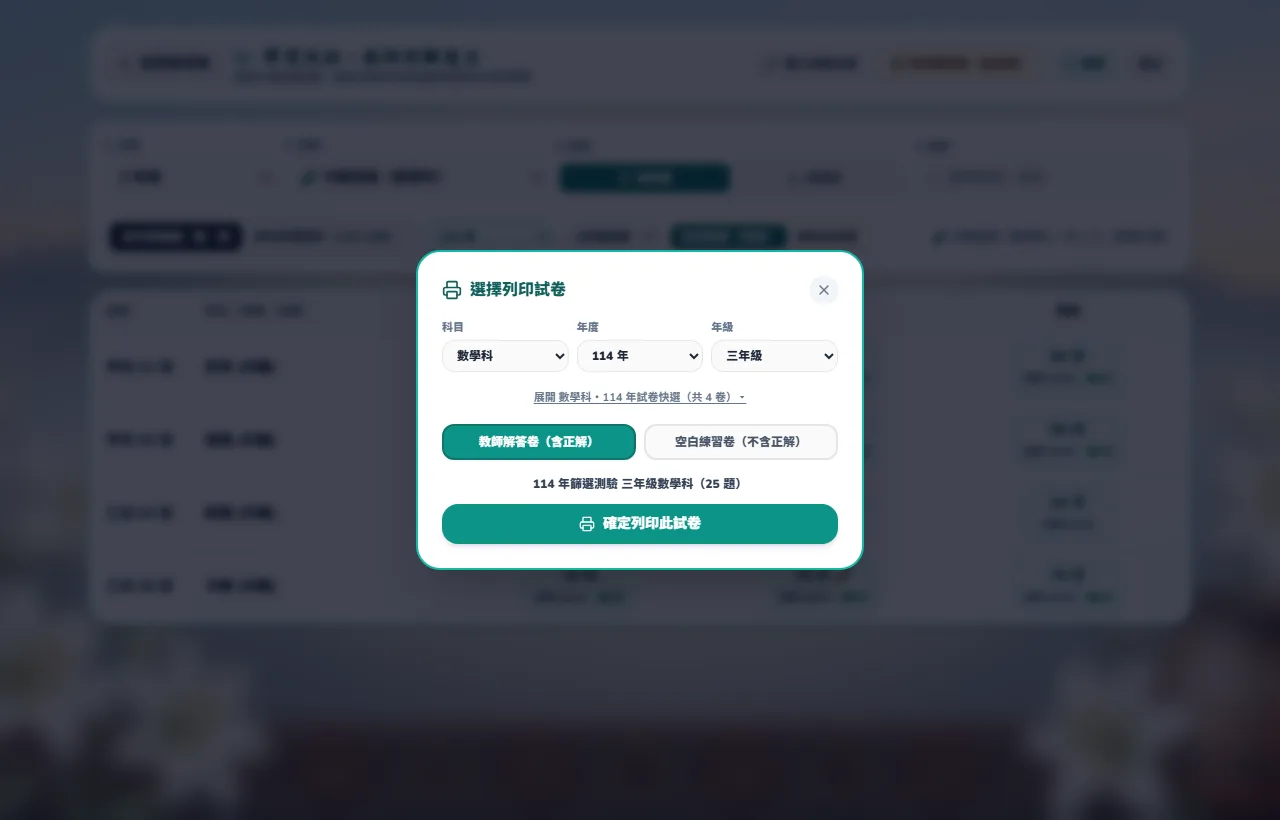
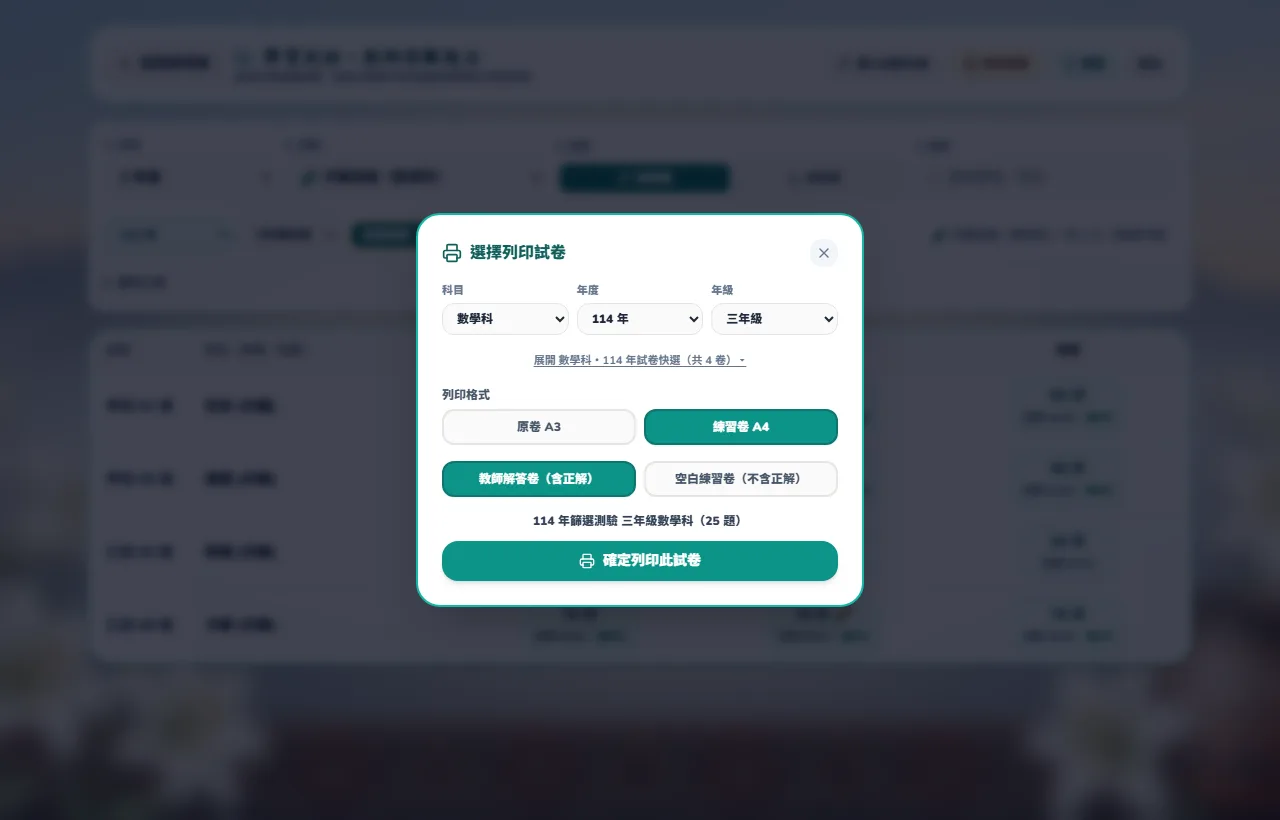
docs(priori): align guide with simplified controls

diff --git a/src/features/priori/PrioriPracticeHub.jsx b/src/features/priori/PrioriPracticeHub.jsx
@@ -1208,7 +1208,7 @@ export function PrioriPracticeHub({ onBack, initialPaperId = null }) {
                     <div
                       role="group"
                       aria-label="選擇特訓回合題數上限"
-                      className="inline-flex items-center rounded-xl bg-white dark:bg-slate-800 border border-rose-200 dark:border-rose-800 p-0.5 text-[11px] font-black"
+                      className="mt-2 inline-flex flex-wrap items-center rounded-xl bg-white dark:bg-slate-800 border border-rose-200 dark:border-rose-800 p-0.5 text-[11px] font-black"
                     >
                       {PRIORI_DRILL_LIMIT_OPTIONS.map((opt) => {
                         const active = drillLimit === opt.count;
@@ -1244,7 +1244,7 @@ export function PrioriPracticeHub({ onBack, initialPaperId = null }) {
                               drillLimit
                             )
                           }
-                          className="px-3 py-1.5 rounded-xl bg-white dark:bg-slate-800 border border-rose-300 dark:border-rose-700 text-rose-700 dark:text-rose-200 font-black text-xs flex items-center gap-1 cursor-pointer"
+                          className="mt-2 px-3 py-1.5 rounded-xl bg-white dark:bg-slate-800 border border-rose-300 dark:border-rose-700 text-rose-700 dark:text-rose-200 font-black text-xs flex items-center gap-1 cursor-pointer"
                         >
                           <Zap className="w-3.5 h-3.5" />
                           <span>僅練錯題 ({subjectRemedialPool.wrongQuestions.length})</span>

diff --git a/src/features/priori/PrioriSpotlightGuideModal.jsx b/src/features/priori/PrioriSpotlightGuideModal.jsx
@@ -139,7 +139,7 @@ export function PrioriSpotlightGuideModal({ isOpen, onClose }) {
                 <span>我是學生（進行測驗）</span>
               </div>
               <p className="text-xs font-bold text-slate-600 dark:text-slate-300 leading-relaxed">
-                以「114 年五年級國語卷」為例，帶你學會選座號、自設 4 碼、朗讀切換與錯題連對 2 次特訓。
+                以「114 年五年級國語卷」為例，帶你選座號、切換朗讀並練習待加強題。
               </p>
               <span className="inline-flex items-center gap-1 text-[11px] font-black text-emerald-700 dark:text-emerald-300 pt-1">
                 開始學生導覽（{GUIDE_STEPS.student.length} 步）

diff --git a/docs/USER_MANUAL.md b/docs/USER_MANUAL.md
@@ -109,10 +109,10 @@
 - **工具列模式切換**：右上角可在「**原卷**（原卷模擬，不含輔助語音）」與「**朗讀**（開啟輔助朗讀按鈕）」之間切換；題目內若有「**原卷注音圖**」按鈕，點開可直接對照官方原卷圖檔與注音。
 - **數學科 iPad 計算紙**：作答數學試卷時，畫面上可展開並排「**計算紙**」，直接在上面手寫直式或草稿，**系統會在交卷時一併保存你的計算紙筆跡**供日後自己回顧或給老師指導診斷。
 - **聽力題與題號跳轉**：英語聽力題提供官方音檔播放鍵；上方題號膠囊可隨時點選跳題、並先查看已作答／未作答狀態再按交卷核對。
-- **錯題沉底特訓規則（交卷後與首頁皆可啟動）**：
+- **待加強題練習（交卷後與首頁皆可啟動）**：
   - 每一題都有「連對次數」紀錄；**答錯會重算連對次數**，**未精熟的題目可在特訓輪次中再次出現**，**累計連對 2 次即標記為「🌟 已精熟」**。
 - 首次正式測驗達 80 分時，初測答對的題目直接標記為已精熟，答錯的題目仍可透過特訓練習。
-  - 特訓時可選單輪上限 **10 題或 20 題**：這裡的 **10 / 20 是指單輪作答次數上限（包含重複出現的同一題）**，若提前把本輪錯題全部練到連對 2 次精熟也會自動結算；沒練完的題目可先按結算保留進度，之後再開下一輪特訓。
+  - 首頁點「練習設定」可選單輪上限 **10 次或 20 次**，同一題重複出現會計入次數。沒練完的題目可留待下一輪；交卷後點「往下看錯題解析」可查看詳解。
 - **派卷 QR 掃碼直入與列印**：如果老師在教室展示「派卷 QR Code」，學生平板掃描後會進入「**派卷快速進入**」確認畫面，**確認年班座號無誤後**點擊進入測驗即可直達指定試卷；學生也可在首頁試卷列或結果頁點擊列印按鈕印出個人練習學習單（或錯題學習單）。
 
 > `[待實機補圖：學習扶助練習館試卷列表、數學計算紙雙欄作答畫面、掃碼確認卡]`
@@ -181,7 +181,7 @@
    - 輸入老師指定的 **4 位數字密碼**並送出即可完成。
    - **安全與資料保留**：學生先前所有作答分數與計算紙**100% 完整保留**，舊裝置的工作階段會立即失效，下次用這組新 4 碼即可登入。
 2. **批次設 4 碼密碼**：
-   - 點擊診斷台上方 **「批次設 4 碼密碼」** 開啟視窗，可套用同一組 4 碼至指定範圍：
+   - 在診斷台展開 **「更多工具」**，點擊 **「批次設 4 碼密碼」** 開啟視窗，可套用同一組 4 碼至指定範圍：
      - **單一班級教師**：依授權班級操作。
      - **管理者帳號**：可另外切換「僅某年級全部班級」或「**全校所有班級（所有人）**」。
    - **⚠ 重要操作提醒：「覆蓋所有人」預設為勾選狀態！**
@@ -192,11 +192,11 @@
 
 #### 5.5 派卷 QR Code 與紙本列印（學生卷 vs 教師解答卷）
 1. **派卷 QR Code（學生一掃直達指定試卷）**：
-   - 可從**學習扶助練習館首頁**（或作答畫面右上角）點擊 **「派卷 QR」**。
+   - 可從**學習扶助練習館首頁**點擊 **「派卷 QR」**。
    - 依序選好 **「科目、年度、試卷年級」**，螢幕即產生專屬 QR Code 與複製連結按鈕。
    - 學生拿平板掃描後，會先顯示派卷確認畫面，**讓學生先確認自己的年班座號是否正確後再按下進入測驗**。
 2. **列印空白學習單與教師解答卷**：
-   - 在教師診斷台頂部點擊 **「列印解答卷（含正解）」**，可指定科目、年度與試卷年級並選擇印出「空白學生練習卷」或「教師解答卷（含正解）」。
+   - 在教師診斷台頂部點擊 **「列印試卷」**，可指定科目、年度與試卷年級並選擇印出「空白學生練習卷」或「教師解答卷（含正解）」。
    - 可選「原卷 A3」或「練習卷 A4」。原卷會以 PDF 開啟，請在 PDF 檢視器選擇列印及紙張；115 年原卷答案尚未提供。三年級英語原卷為紙筆作答。
    - **注意**：列印出來的 **教師解答卷會印出每題正解**（官方答案或參考正解）；**詳細逐題文字解析則留在網頁上，於學生／試卷交卷後的結果頁查看**。
 

diff --git a/HANDOVER.md b/HANDOVER.md
@@ -116,6 +116,11 @@
 
 ## 五、 專案現況進度與待辦清單 (Current Status & Next)
 
+**2026-11-17 學扶館介面簡化**
+- 學生首頁以「再練待加強題」作為主要入口，練習次數與僅練錯題收進「練習設定」。交卷後顯示練習次數上限、待加強總數與「往下看錯題解析」，整卷重做及列印收進「更多操作」。
+- 教師後台保留班級、試卷年級、成績與列印；跨年度、批次設碼等收進「更多工具」。名冊未匯入或未解鎖時顯示入口，解鎖後收入更多工具。
+- 學生與教師聚光燈導覽及使用手冊配合介面更新。截圖以隔離的示範身分產生，仍需校內實體裝置實測。
+
 **2026-11-17 PRIORI 原卷 PDF 列印**
 - 前台試卷列印可選原卷 A3 或練習卷 A4，教師後台可另選空白卷或解答卷；錯題學習單沿用既有 A4。原卷 PDF 開啟後由瀏覽器／PDF 檢視器列印，紙張與雙面由使用者設定。
 - 112–114 年各 12 份學生卷與解答卷，以及 115 年三數空白卷，位於 `public/assets/priori/original/`；115 年無原卷答案 PDF。三年級英語原卷為紙筆作答形式。
